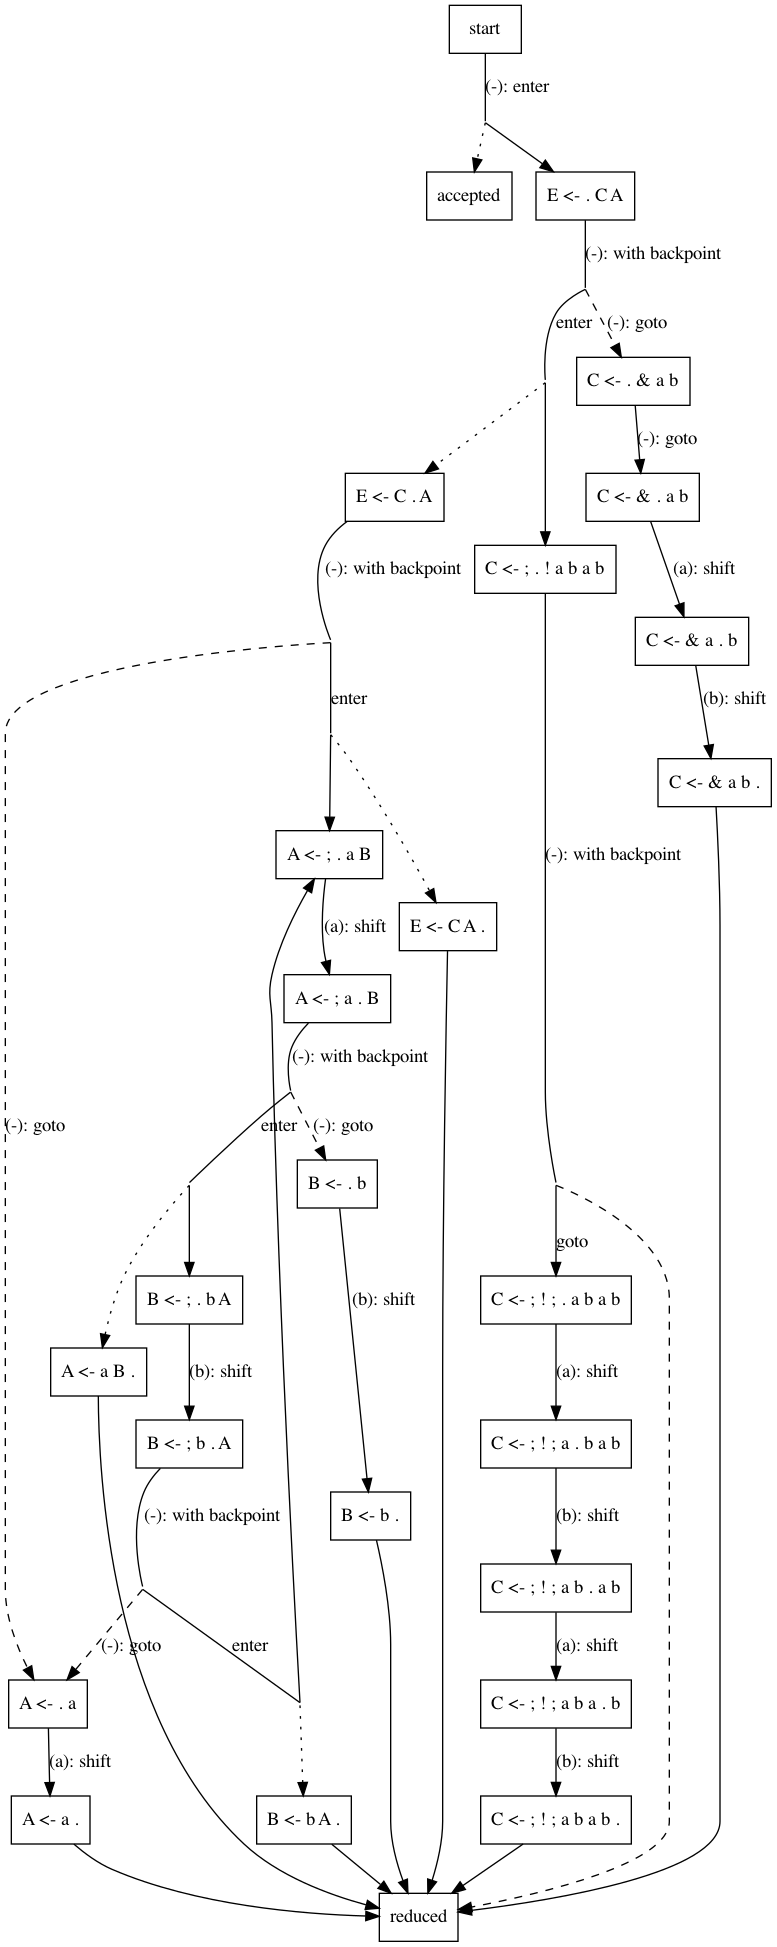
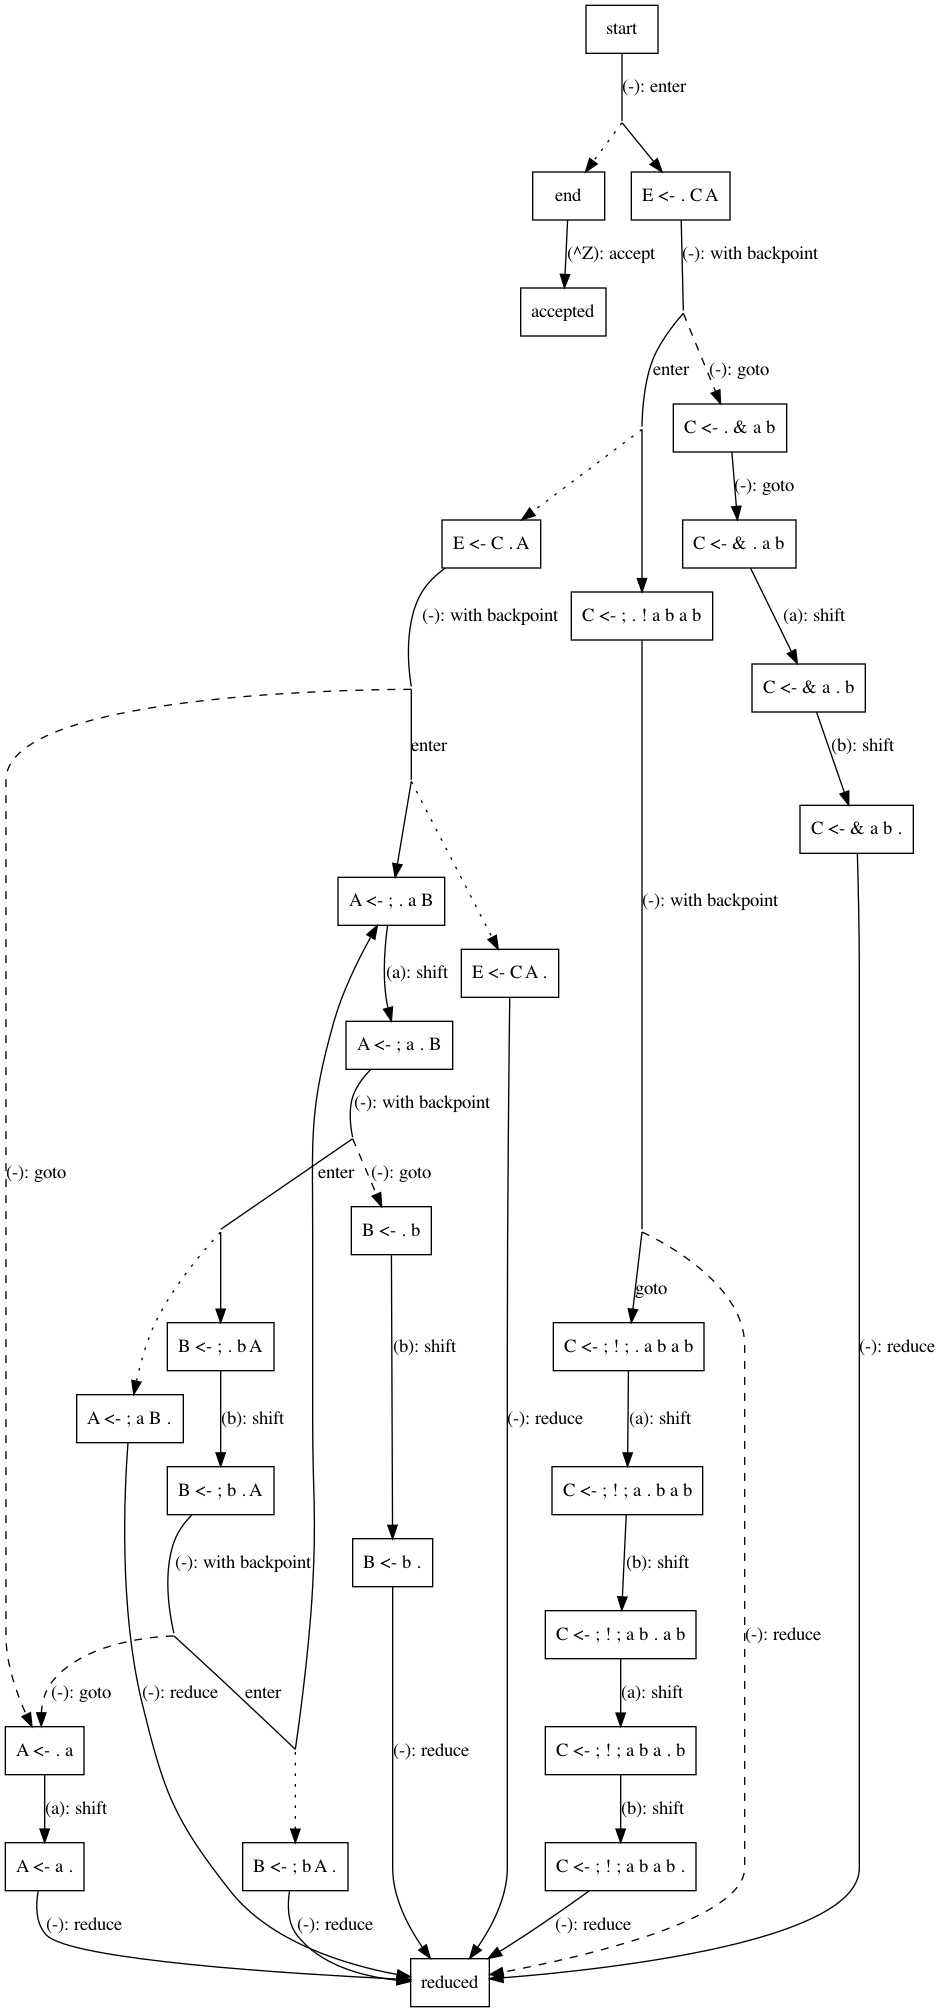
Add some contents

diff --git a/article/implementation-note-of-peg-parser.tex b/article/implementation-note-of-peg-parser.tex
@@ -89,3 +89,9 @@ Output:
   \includegraphics[height=0.9\textheight]{asset/implementation-note-of-peg-parser/sample-grammar.png}
   \caption{状態遷移図}
 \end{figure}
+
+\begin{figure}
+  \centering
+  \includegraphics[height=0.9\textheight]{asset/implementation-note-of-peg-parser/sample-grammar-optimized.png}
+  \caption{最適化された状態遷移図}
+\end{figure}
